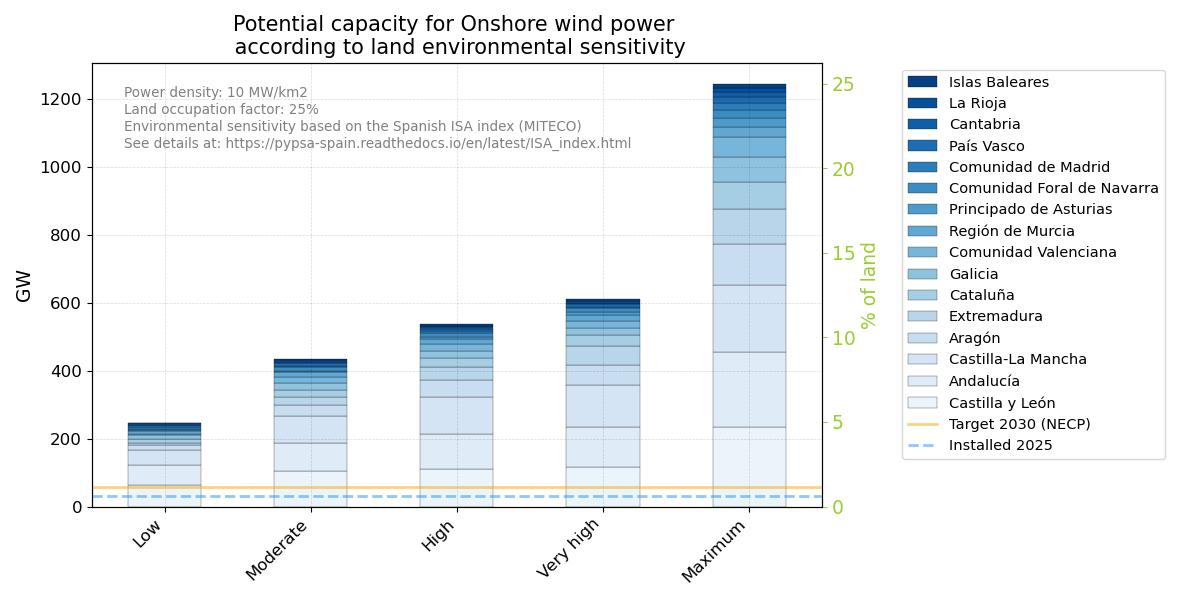
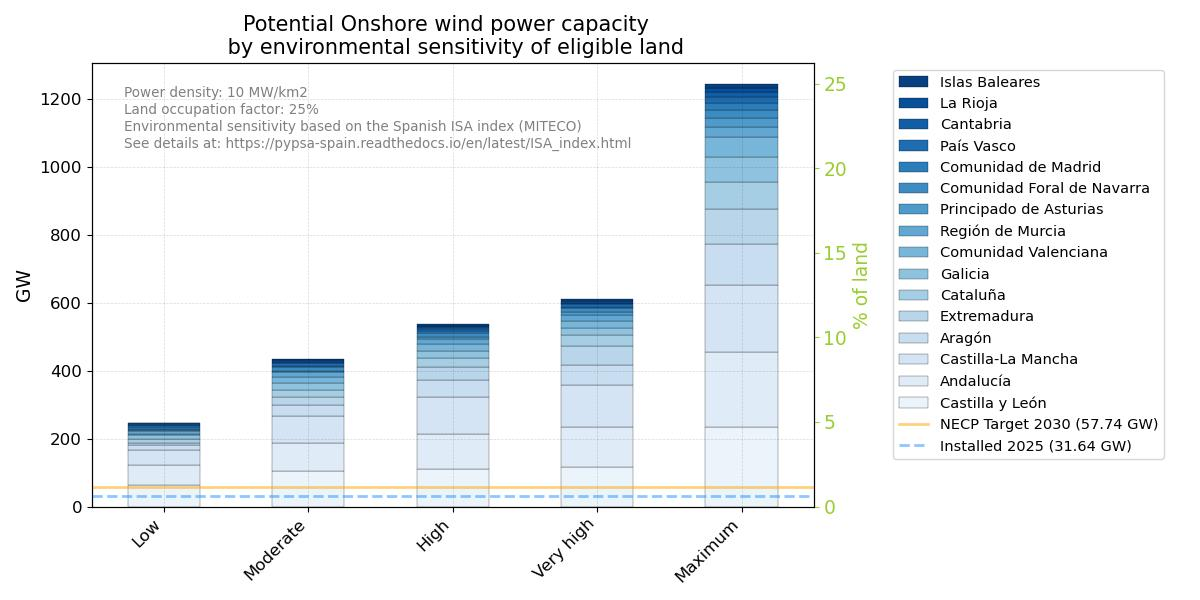
ISA updated doc

diff --git a/docs/ISA_index.rst b/docs/ISA_index.rst
@@ -37,11 +37,17 @@ As a result, an **Environmental Sensitivity Index (ISA)** was calculated for eac
    :widths: 8,12,12,12
    :file: configtables/ISA_index.csv
 
+
+.. image:: img/ISA_map.jpg
+    :width: 80%
+    :align: center
+
+
 See more details on the ISA index `here <https://www.miteco.gob.es/en/calidad-y-evaluacion-ambiental/temas/evaluacion-ambiental/zonificacion_ambiental_energias_renovables.html>`__ (in Spanish).
 
-PyPSA-Spain allows land elegibility to be defined according to the ISA index (see `config <https://pypsa-spain.readthedocs.io/en/latest/configuration.html>`__.
+**PyPSA-Spain** allows land elegibility to be defined according to the ISA index (see `config <https://pypsa-spain.readthedocs.io/en/latest/configuration.html>`__ section).
 
-The following figures show the potential capacity computed with PyPSA-Spain according to different ISA levels and NUTS 2 regions. For example, *High* means that eligible land includes ISA levels 2, 3 and 4. Horizontal lines indicate the installed capacity of the corresponding technology in 2025, and the target for 2030 as defined in the Spanish National Energy and Climate Plan (NECP). Energy densities of 10 MW/km2 and 50 MW/km2 were assumed for wind power and solar PV, respectively. A land occupation factor of 25% was assumed, meaning that only this percentage of eligible land was considered when determining the potential capacity.
+The following figures show the potential capacity computed with PyPSA-Spain according to different ISA levels and NUTS 2 regions. For example, *High* means that eligible land includes ISA levels 2, 3 and 4. The horizontal lines indicate the installed capacity of the corresponding technology in 2025, and the target for 2030 as defined in the Spanish National Energy and Climate Plan (NECP). Energy densities of 10 MW/km2 and 50 MW/km2 were assumed for wind power and solar PV, respectively. A land occupation factor of 25% was assumed, meaning that only this percentage of eligible land was considered when determining the potential capacity.
 
 
 .. image:: img/ISA_onwind.jpg
